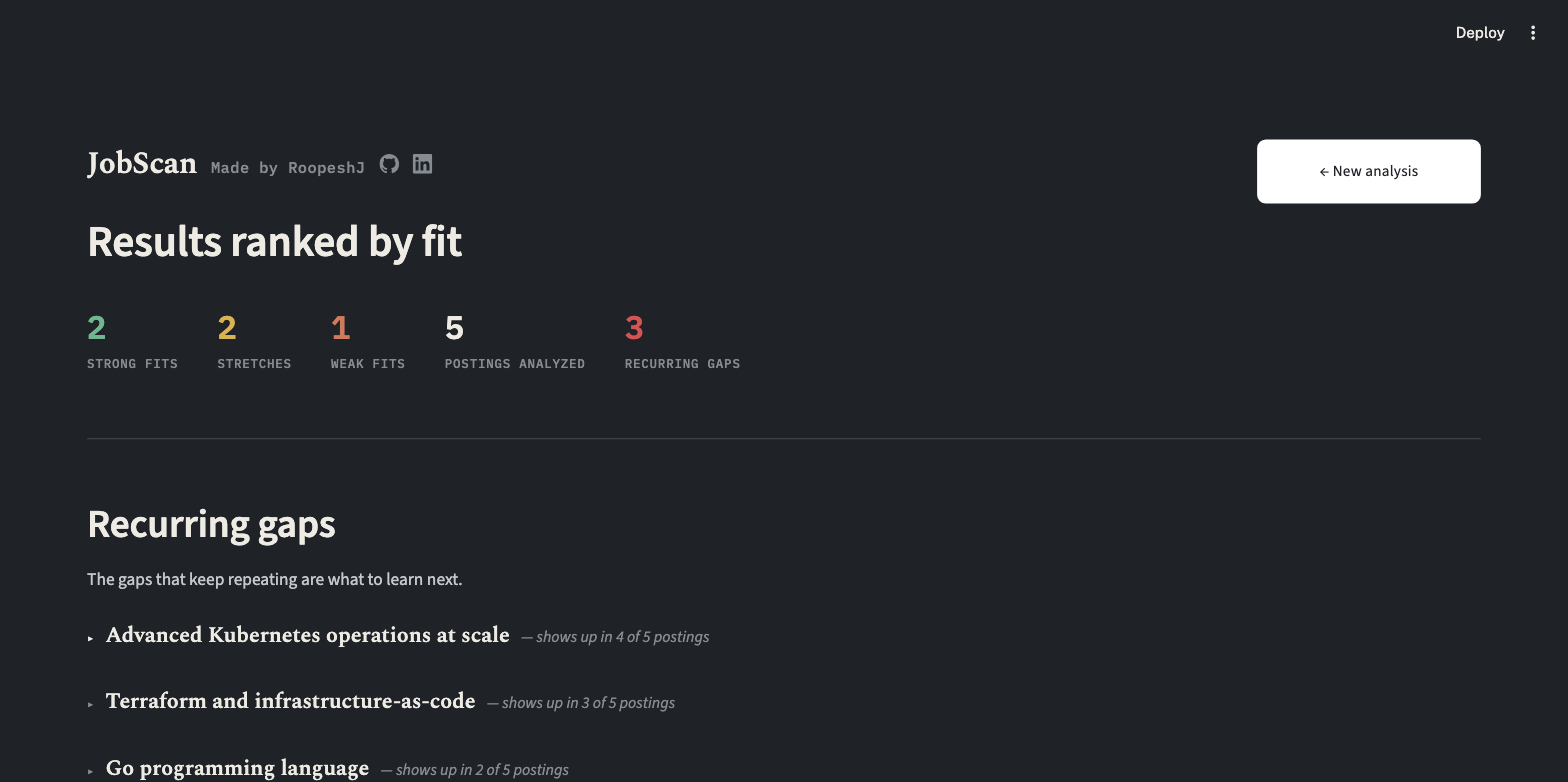
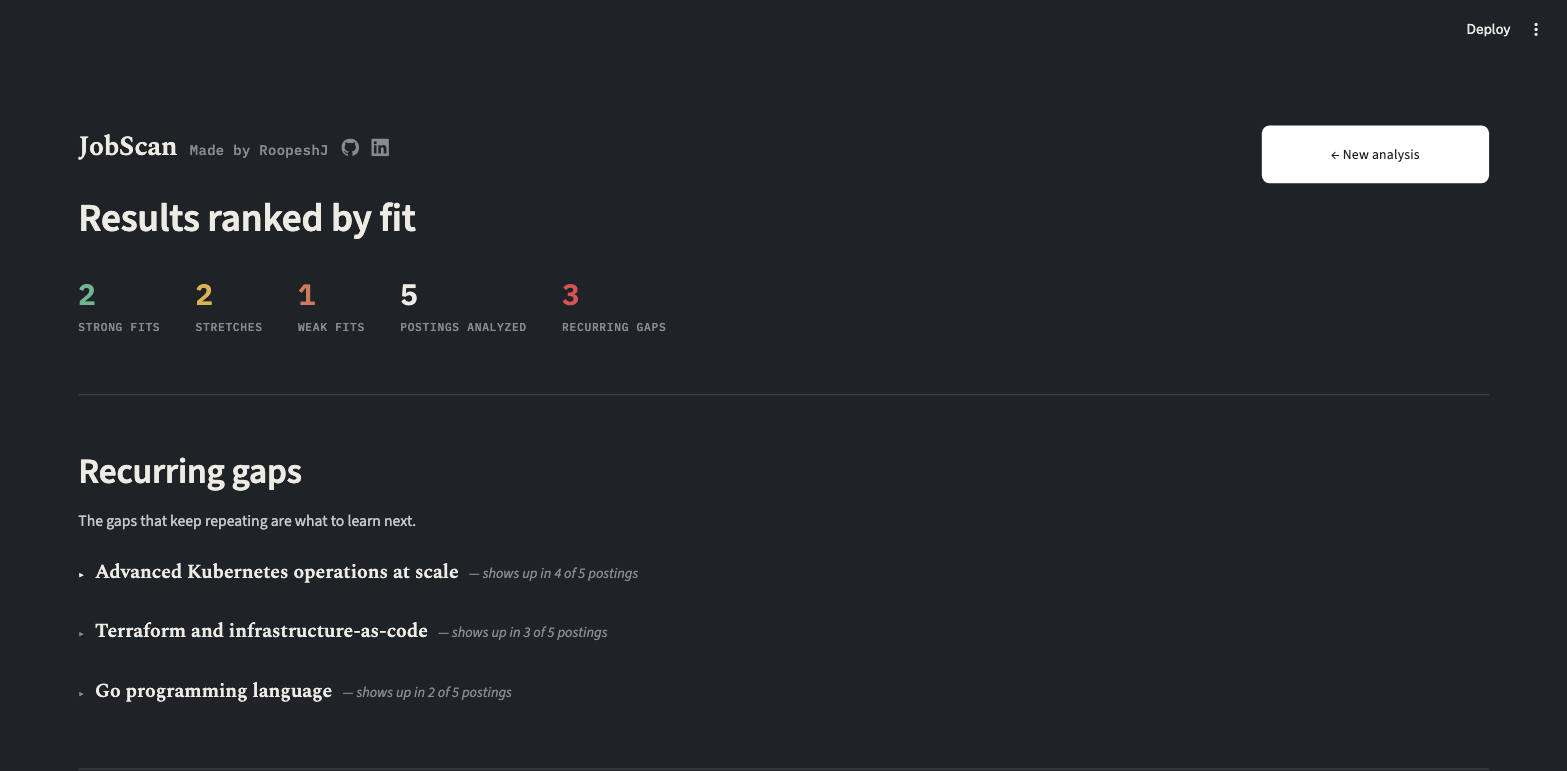
Rewrite README prose to sound less like a template, fix a tight crop
Cut the em-dash habit and the repeated screenshot-then-contrast
sentence structure across sections. Recurring-gaps screenshot was
cropped too tight at the bottom; recaptured with more margin.

diff --git a/README.md b/README.md
@@ -2,38 +2,36 @@
 
 **[Try it live →](https://job-scanner-roopj.streamlit.app/)**
 
-![JobScan — paste a posting and your background, get back a traceable read on the fit](docs/images/hero.png)
+![JobScan's landing page, showing a strength and a gap each linked to the exact line in a posting they came from](docs/images/hero.png)
 
-Paste a job posting and your background (resume, notes, anything — plain text), and get back a structured, traceable read on the fit: what the posting actually requires vs. prefers, and honest strengths and gaps against your background — each claim linked back to the exact line in the posting that supports it.
+Paste a job posting and your background, and JobScan tells you where you actually stand: what the posting requires versus what's just preferred, and your real strengths and gaps against it. Every claim is tied back to the exact line in the posting it came from, so there's nothing to take on faith.
 
-The core idea: no plausible-sounding summaries. Every insight has to point at real text, not a guess.
+If you'd rather not paste your own resume in, there's a "See a sample analysis" button on the input page. It loads instantly and doesn't cost anything to run.
 
-No time to paste your own? Click **"See a sample analysis"** on the input page for an instant, pre-loaded example — it makes no API calls and costs nothing to load.
+## Recurring gaps
 
-## Recurring gaps — the part a one-off chat can't do
+![The recurring gaps panel, listing three gaps and how many of the five analyzed postings each one shows up in](docs/images/recurring-gaps.png)
 
-![Recurring gaps: the same gap grouped across multiple postings, with how many postings it shows up in](docs/images/recurring-gaps.png)
+This is the feature that's actually hard to get out of a chat window. Paste in five postings at once and JobScan looks across all of them for gaps that keep showing up, not just what's wrong with each one individually. A chat only ever sees one job posting at a time, so it can't tell you that the Kubernetes gap you keep hitting is the thing actually worth fixing before your next ten applications. Each recurring gap expands to show what every affected posting specifically asked for, in that posting's own words, so you can check the pattern is real rather than just take the tool's word for it.
 
-Paste more than one posting and JobScan doesn't just rank them by fit — it looks across the whole batch for gaps that show up more than once, and groups them together. A chat conversation only ever sees one posting at a time, so it can't tell you which gap is actually worth closing first because it keeps costing you the same roles. Each recurring gap expands to show exactly what every affected posting asked for, in that posting's own words.
+## Traceable citations
 
-## Every claim is traceable
+![A posting's strengths and gaps sitting next to its source text, with the cited lines underlined](docs/images/citations.png)
 
-![A posting's strengths and gaps next to the source text, with every cited line underlined](docs/images/citations.png)
-
-Click a posting and every strength or gap sits next to the source text it came from, with the exact cited lines underlined. If a piece of extracted or generated data can't be verified against the source text, it's dropped rather than shown — with a visible note, not silently.
+Open any posting and its strengths and gaps sit right next to the text they were pulled from, with the exact lines underlined. If something can't be traced back to real text in the posting, it gets dropped rather than shown, and you'll see a note saying so.
 
 ## How it works
 
-1. **Extraction** — the posting is broken down into structured facts (title, company, seniority, responsibilities, requirements), each tagged required/preferred/unclear and backed by a verbatim quote from the posting.
-2. **Analysis** — your background is compared against that structured breakdown to produce strengths and gaps, each citing the specific requirement or responsibility it's based on.
-3. **Batch mode** — analyze up to 5 postings in one run, ranked by fit, instead of one at a time.
-4. **Recurring gaps** — across that batch, the gaps that show up in more than one posting get grouped together and surfaced first.
+1. **Extraction.** The posting gets broken down into structured facts: title, company, seniority, responsibilities, requirements. Each requirement is tagged required, preferred, or unclear and backed by a verbatim quote.
+2. **Analysis.** Your background gets compared against that structure to produce strengths and gaps, each one citing the specific requirement or responsibility it came from.
+3. **Batch mode.** Analyze up to 5 postings at once, ranked by fit.
+4. **Recurring gaps.** Across that batch, whatever gap keeps showing up gets pulled out and shown first.
 
 ## Using it
 
-**The live demo** is the fastest way to try it — no setup, nothing to install. It's a single shared deployment, though, so postings analyzed per day are capped and split across everyone visiting the link (`usage_guard.DAILY_POSTING_LIMIT`).
+The live demo is the quickest way to try this. Nothing to install. It's a single shared deployment though, so there's a daily cap on postings analyzed, split across everyone using the link.
 
-**Run it yourself** if you want no shared limit, or want to read/change the code:
+To run it yourself, with no shared cap and full access to the code:
 
 ```bash
 git clone https://github.com/Roopesh-J/Job-Scanner.git
@@ -46,18 +44,13 @@ export ANTHROPIC_API_KEY=your-key-here
 streamlit run job_scanner/app.py
 ```
 
-You'll need your own [Anthropic API key](https://console.anthropic.com/) — API usage is billed to that key, not shared with anyone else.
+You'll need your own [Anthropic API key](https://console.anthropic.com/). Usage is billed to that key, not shared with anyone else using the app.
 
 ## Evaluation
 
-`job_scanner/eval/` measures how well Stage 1 (extraction) actually performs, against a hand-labeled
-reference set of 5 postings in `tests/fixtures/eval/`: requirement/responsibility precision and recall,
-category (required/preferred/unclear) accuracy, and grounding rate (the fraction of extracted items whose
-quote is verifiably real). Matching predicted items to reference items uses local sentence embeddings
-(`sentence-transformers`, `all-MiniLM-L6-v2`) rather than exact-string comparison, so a differently-worded
-but equivalent extraction still counts as correct.
+It's easy to claim an extraction pipeline works. `job_scanner/eval/` actually measures it, against a hand-labeled reference set of 5 postings in `tests/fixtures/eval/`. It checks requirement and responsibility precision and recall, whether required/preferred/unclear gets classified correctly, and grounding rate, which is how often an extracted quote is verifiably real text from the posting. Matching predicted items against the reference set uses local sentence embeddings instead of exact string comparison, so a differently worded but equivalent extraction still counts as correct.
 
-Latest run against the reference set (2026-08-21):
+Latest run against the reference set, from 2026-08-21:
 
 | Metric | Score |
 |---|---|
@@ -68,31 +61,24 @@ Latest run against the reference set (2026-08-21):
 | Category accuracy | 0.85 |
 | Grounding rate | 1.00 |
 
-The one recurring miss: the model tends to call an ambiguous requirement "required" or "preferred" rather
-than correctly flagging it "unclear" — every category error in this run was exactly that pattern (0 errors
-in the other direction).
+Category accuracy is the one score that isn't perfect, and the reason is consistent: every miss in this run was the model calling an ambiguous requirement "required" or "preferred" when it should have been "unclear." None went the other way. That's a specific failure mode worth knowing about, not just noise in the numbers.
 
-Run it yourself with a real `ANTHROPIC_API_KEY` set (this makes real, billed API calls):
+Run it yourself with a real `ANTHROPIC_API_KEY` set. This makes real, billed API calls:
 
 ```bash
 python -m job_scanner.eval.run_eval
 ```
 
-`matching.py` and `metrics.py` have their own fast, free unit tests (`pytest tests/test_eval_matching.py
-tests/test_eval_metrics.py`) using the local embedding model against synthetic examples — no API calls
-involved. `run_eval.py` itself is intentionally not part of the `pytest` suite.
+`matching.py` and `metrics.py` have their own fast, free tests (`pytest tests/test_eval_matching.py tests/test_eval_metrics.py`) that run the local embedding model against synthetic examples, no API calls needed. `run_eval.py` itself is intentionally left out of the `pytest` suite since it spends real money.
 
-## Deploying your own copy (Streamlit Community Cloud)
+## Deploying your own copy
 
-1. Fork this repo. On [share.streamlit.io](https://share.streamlit.io), connect your fork and set the main file path to `job_scanner/app.py`.
-2. In the app's Secrets panel, add:
-   ```toml
-   ANTHROPIC_API_KEY = "your-key-here"
-   ```
-3. Deploy. `requirements.txt` (`-e .`) installs the package and its dependencies from `pyproject.toml`.
+1. Fork this repo. On [share.streamlit.io](https://share.streamlit.io), connect your fork and point the main file path at `job_scanner/app.py`.
+2. Add `ANTHROPIC_API_KEY` to the app's Secrets panel.
+3. Deploy. `requirements.txt` installs everything from `pyproject.toml`.
 
-A deployed copy has no login/passcode by design — anyone with the URL can use it. To keep API spend bounded, there's a shared, in-process daily cap on postings analyzed (`usage_guard.DAILY_POSTING_LIMIT`), plus per-batch (`MAX_POSTINGS_PER_BATCH`) and per-field character limits. The daily counter lives in memory, so it resets if the process restarts (a redeploy, or Streamlit Community Cloud waking from inactivity) — it's a best-effort budget, not a hard guarantee. Also note that the character limits (`max_chars` on the input widgets) are client-side widget enforcement only, with no server-side re-validation — they stop accidental oversized pastes, not a client that speaks Streamlit's protocol directly.
+A deployed copy has no login by design, so anyone with the URL can use it. There's a shared, in-memory daily cap on postings analyzed to keep API spend bounded, plus per-batch and per-field character limits. A redeploy or a Streamlit Cloud cold start resets the daily counter, so treat it as a best-effort budget rather than a hard guarantee. The character limits are enforced client-side only, so they stop accidental large pastes but not someone deliberately working around the widget.
 
 ## Tech stack
 
-Python, the Anthropic API (direct SDK, no agent framework), Pydantic, Streamlit. Tests via `pytest` — run with `pytest -v`.
+Python, the Anthropic API directly (no agent framework), Pydantic, Streamlit. Tests run with `pytest`.
